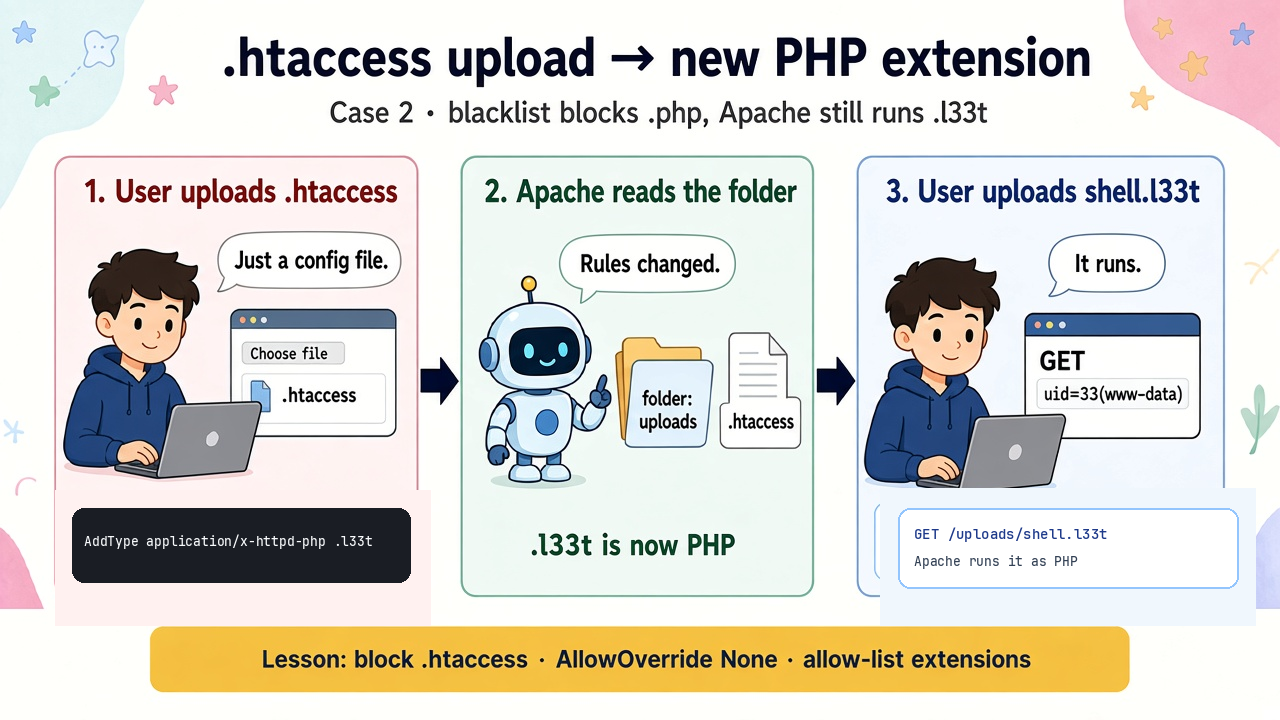
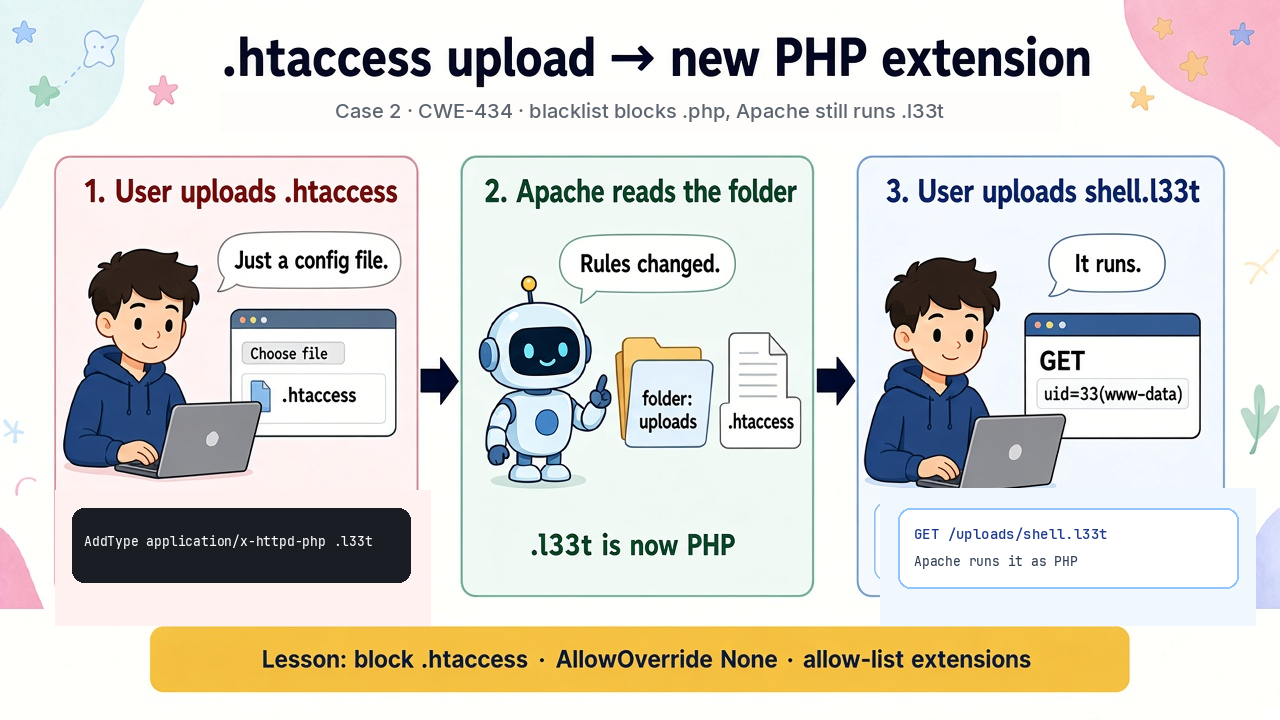
Label the htaccess slide CWE-434 and refresh the TimThumb story slide

Changed region(s): [[0.25, 0.1222, 0.7812, 0.1833]]

diff --git a/FileUpload/presentation/historical-cases/README.md b/FileUpload/presentation/historical-cases/README.md
@@ -58,7 +58,7 @@ Each case has a PNG in [`illustrations/`](illustrations/). Case **#1** uses **tw
 
 | | |
 |---|---|
-| **Illustration** | [`illustrations/hist-02-htaccess-story-720p.png`](illustrations/hist-02-htaccess-story-720p.png) — **.htaccess upload → new PHP extension** |
+| **Illustration** | [`illustrations/hist-02-htaccess-story-720p.png`](illustrations/hist-02-htaccess-story-720p.png) — **.htaccess upload → new PHP extension (CWE-434)** |
 | **PortSwigger lab (step-by-step)** | https://portswigger.net/web-security/file-upload/lab-file-upload-web-shell-upload-via-extension-blacklist-bypass |
 | **OWASP Cheat Sheet — `.htaccess` in uploads** | https://cheatsheetseries.owasp.org/cheatsheets/File_Upload_Cheat_Sheet.html |
 | **Cyber Library — `.htaccess` override abuse** | https://www.cyberlibrary.com/en/docs/offensive/software/applications/server/web/platform/apache/handler-and-type-mapping |
